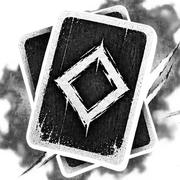
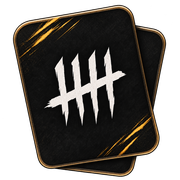
Consolidated and Improved Images

diff --git a/site/index.html b/site/index.html
@@ -79,7 +79,7 @@
         />
         <meta
             property="og:image"
-            content="https://dbdflashcards.com/og-image.jpg"
+            content="https://dbdflashcards.com/og-image-v2.jpg"
         />
         <meta
             property="og:image:type"
@@ -113,7 +113,7 @@
         />
         <meta
             name="twitter:image"
-            content="https://dbdflashcards.com/og-image.jpg"
+            content="https://dbdflashcards.com/og-image-v2.jpg"
         />
         <meta
             name="twitter:image:alt"

diff --git a/site/src/components/home/HomeBanner.vue b/site/src/components/home/HomeBanner.vue
@@ -46,7 +46,6 @@ const splashText = generateSplashText();
     justify-content: center;
 
     overflow: hidden;
-    background: var(--dark-0);
 }
 
 .banner-bg {
@@ -58,8 +57,6 @@ const splashText = generateSplashText();
 
     object-fit: cover;
     object-position: center;
-
-    filter: grayscale(1);
 }
 
 .home-banner::after {
